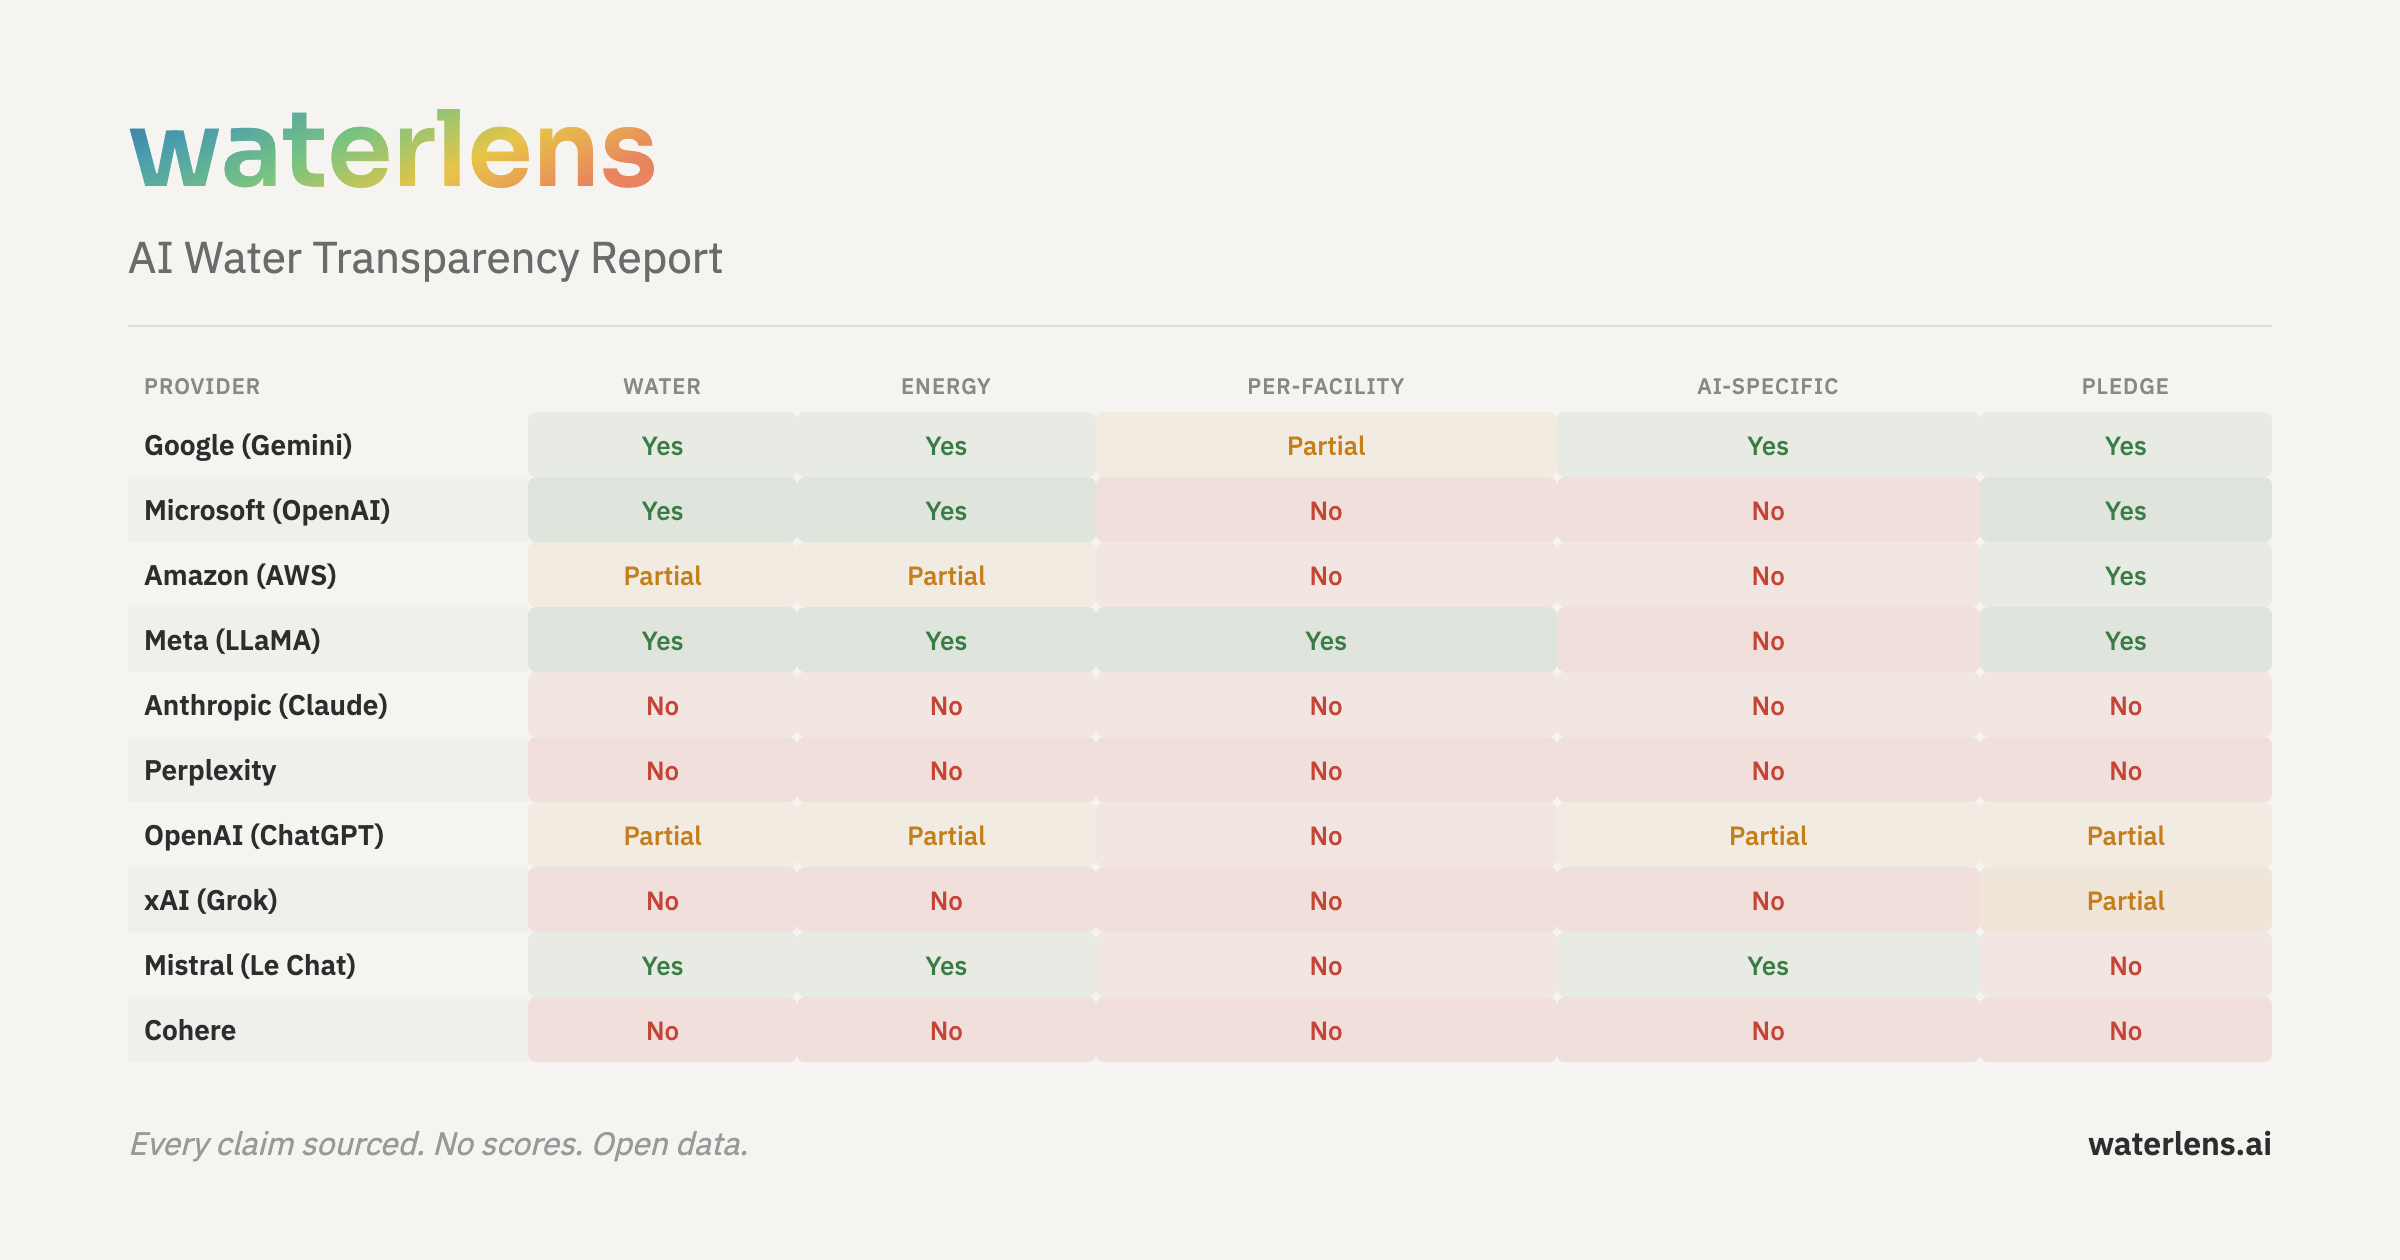
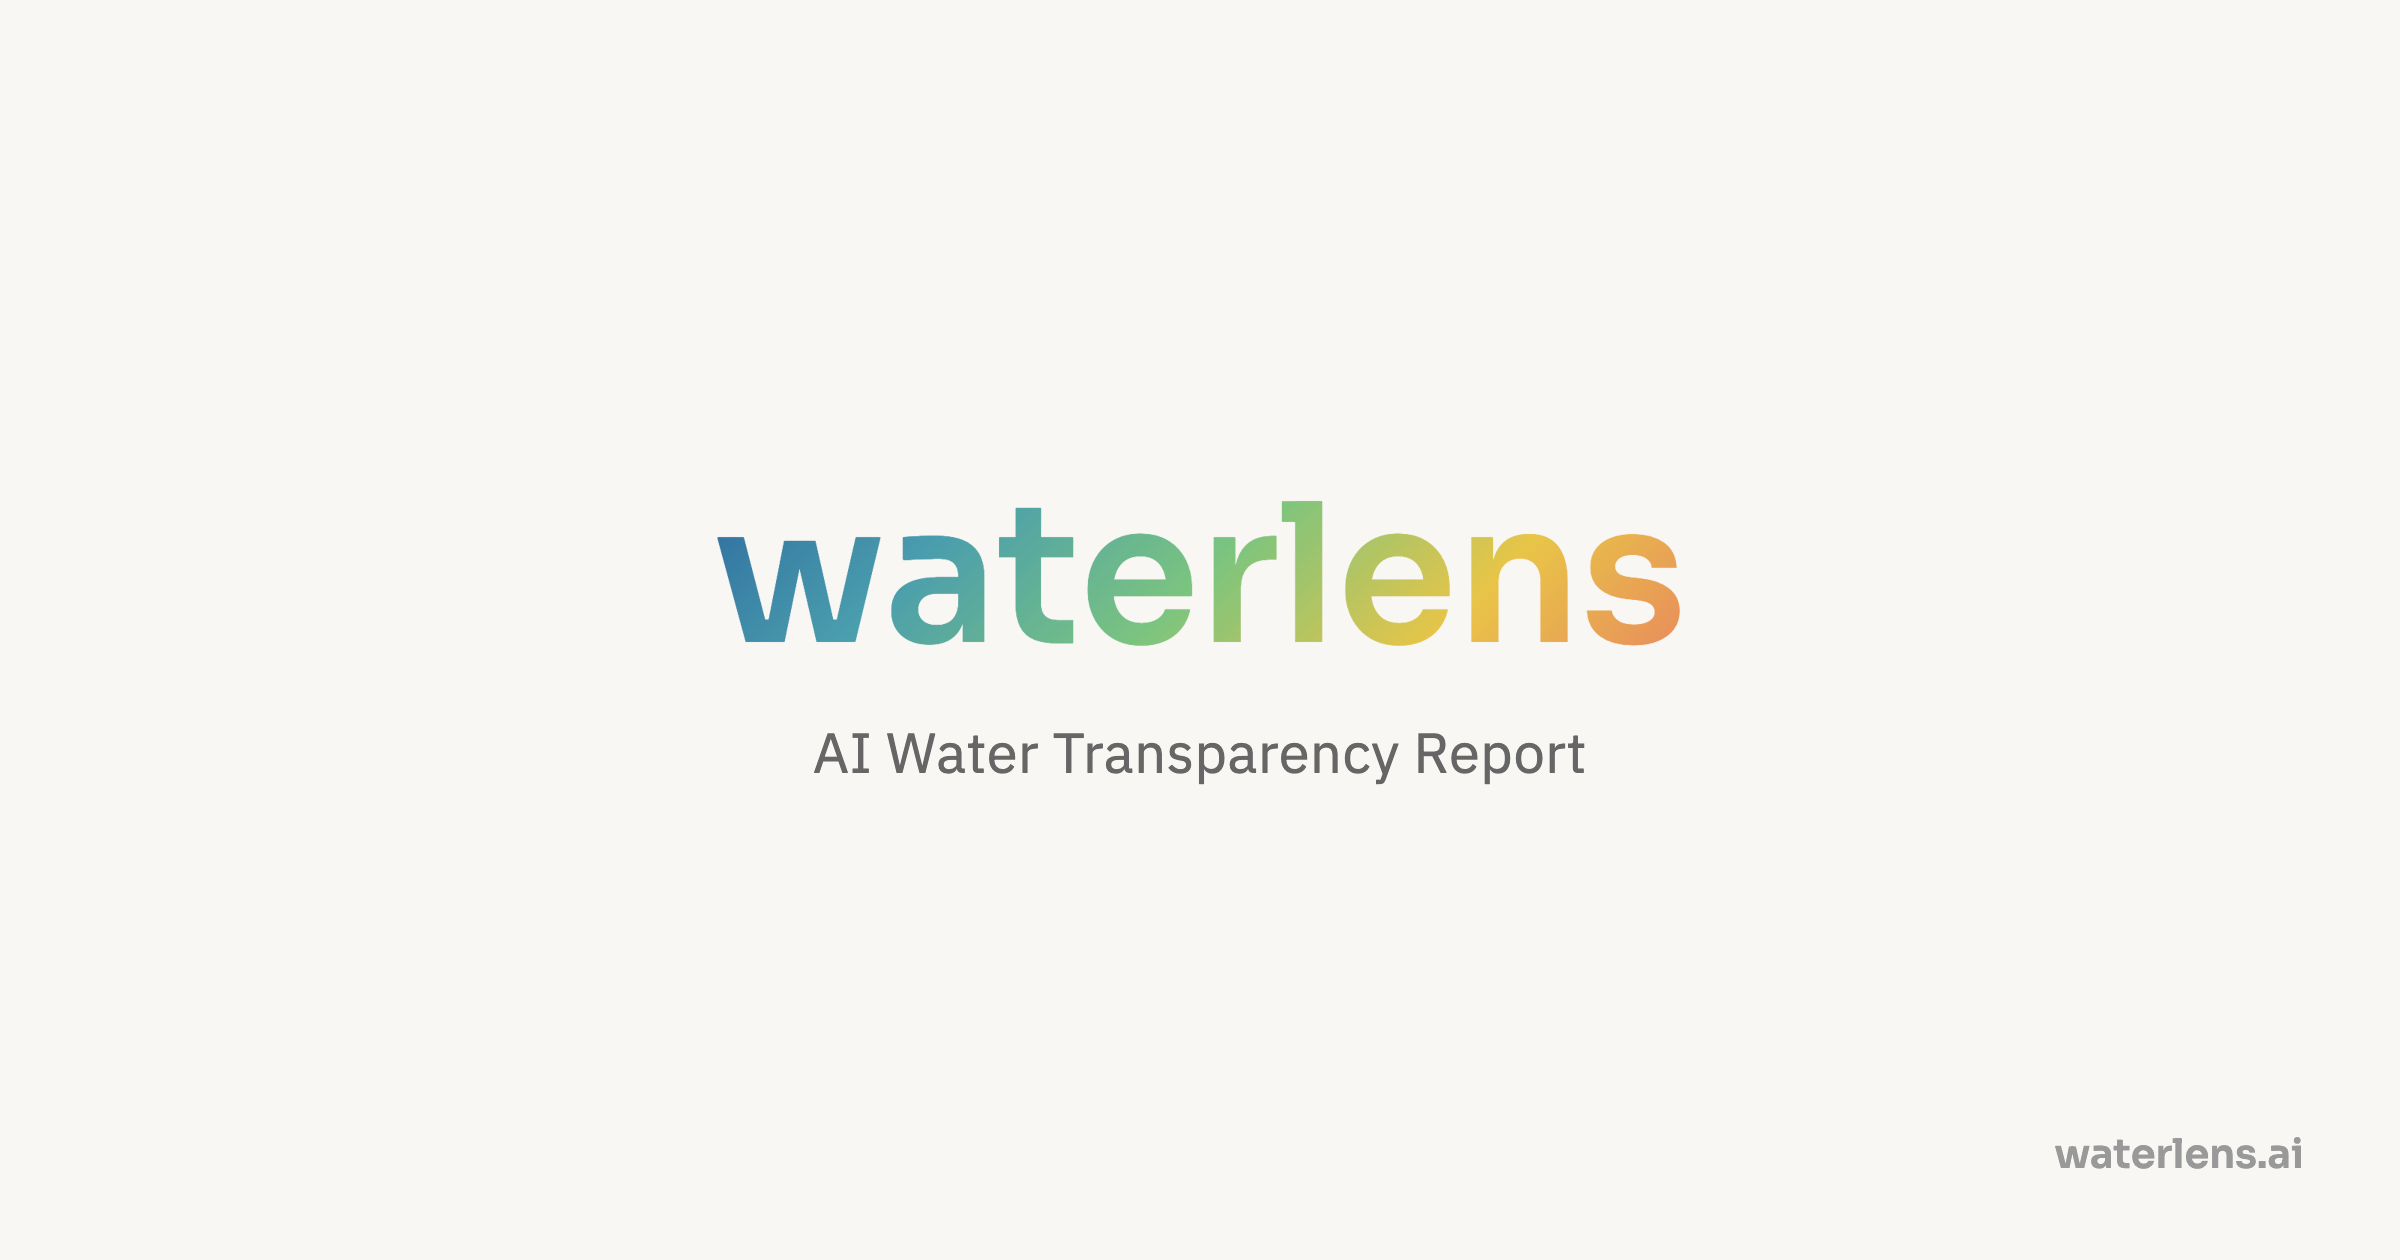
Update OG image to clean wordmark and add generator HTML

diff --git a/public/og-image.html b/public/og-image.html
@@ -1,0 +1,57 @@
+<!DOCTYPE html>
+<html>
+<head>
+<meta charset="utf-8">
+<style>
+  @import url('https://fonts.googleapis.com/css2?family=Sora:wght@600&family=IBM+Plex+Sans:wght@400&display=swap');
+
+  * { margin: 0; padding: 0; box-sizing: border-box; }
+
+  body {
+    width: 1200px;
+    height: 630px;
+    background: #f8f7f4;
+    display: flex;
+    flex-direction: column;
+    justify-content: center;
+    align-items: center;
+    font-family: 'IBM Plex Sans', sans-serif;
+    position: relative;
+    overflow: hidden;
+  }
+
+  .wordmark {
+    font-family: 'Sora', sans-serif;
+    font-weight: 600;
+    font-size: 96px;
+    background: linear-gradient(135deg, #2d6a9f, #4a9ead, #7bc47f, #e8c547, #e8845f);
+    -webkit-background-clip: text;
+    -webkit-text-fill-color: transparent;
+    background-clip: text;
+    line-height: 1.1;
+  }
+
+  .subtitle {
+    font-size: 28px;
+    color: #666666;
+    margin-top: 16px;
+    letter-spacing: 0.01em;
+  }
+
+  .url {
+    position: absolute;
+    bottom: 40px;
+    right: 48px;
+    font-family: 'Sora', sans-serif;
+    font-weight: 600;
+    font-size: 20px;
+    color: #999999;
+  }
+</style>
+</head>
+<body>
+  <div class="wordmark">waterlens</div>
+  <div class="subtitle">AI Water Transparency Report</div>
+  <div class="url">waterlens.ai</div>
+</body>
+</html>